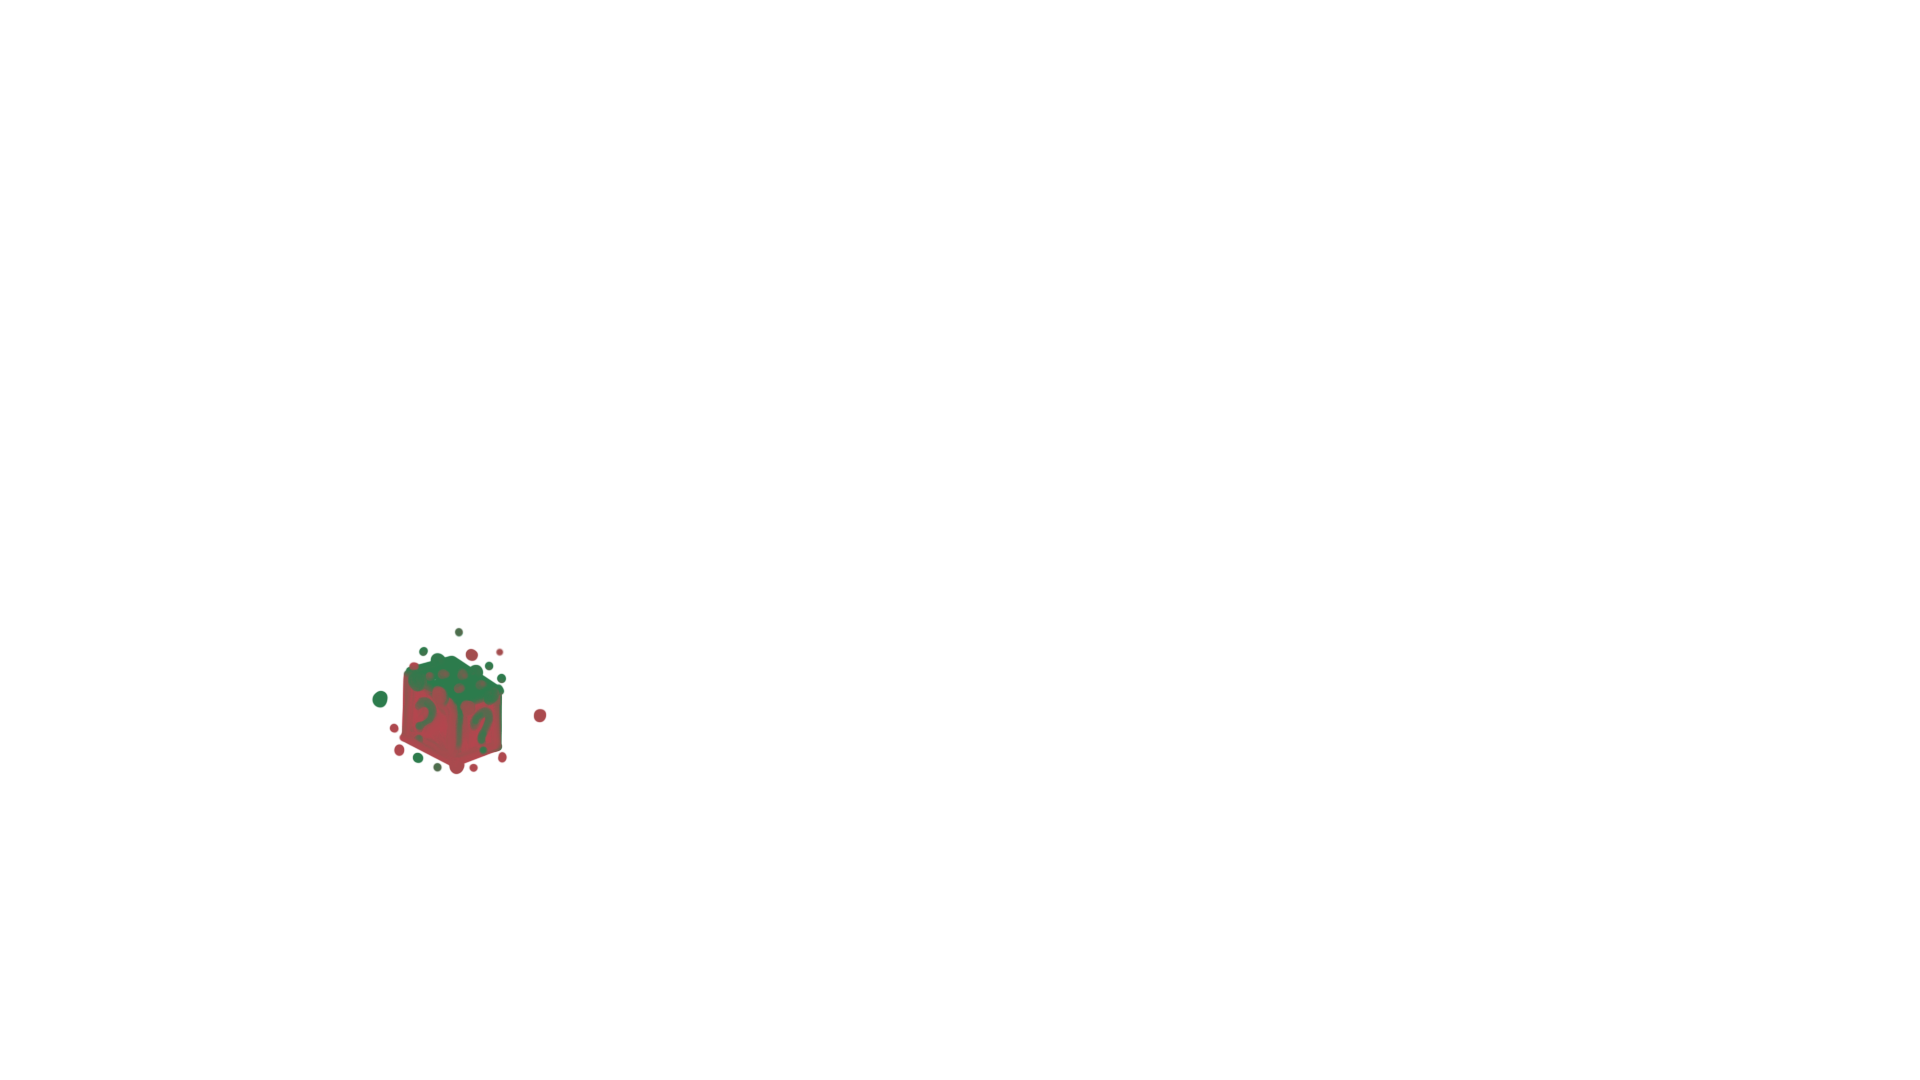
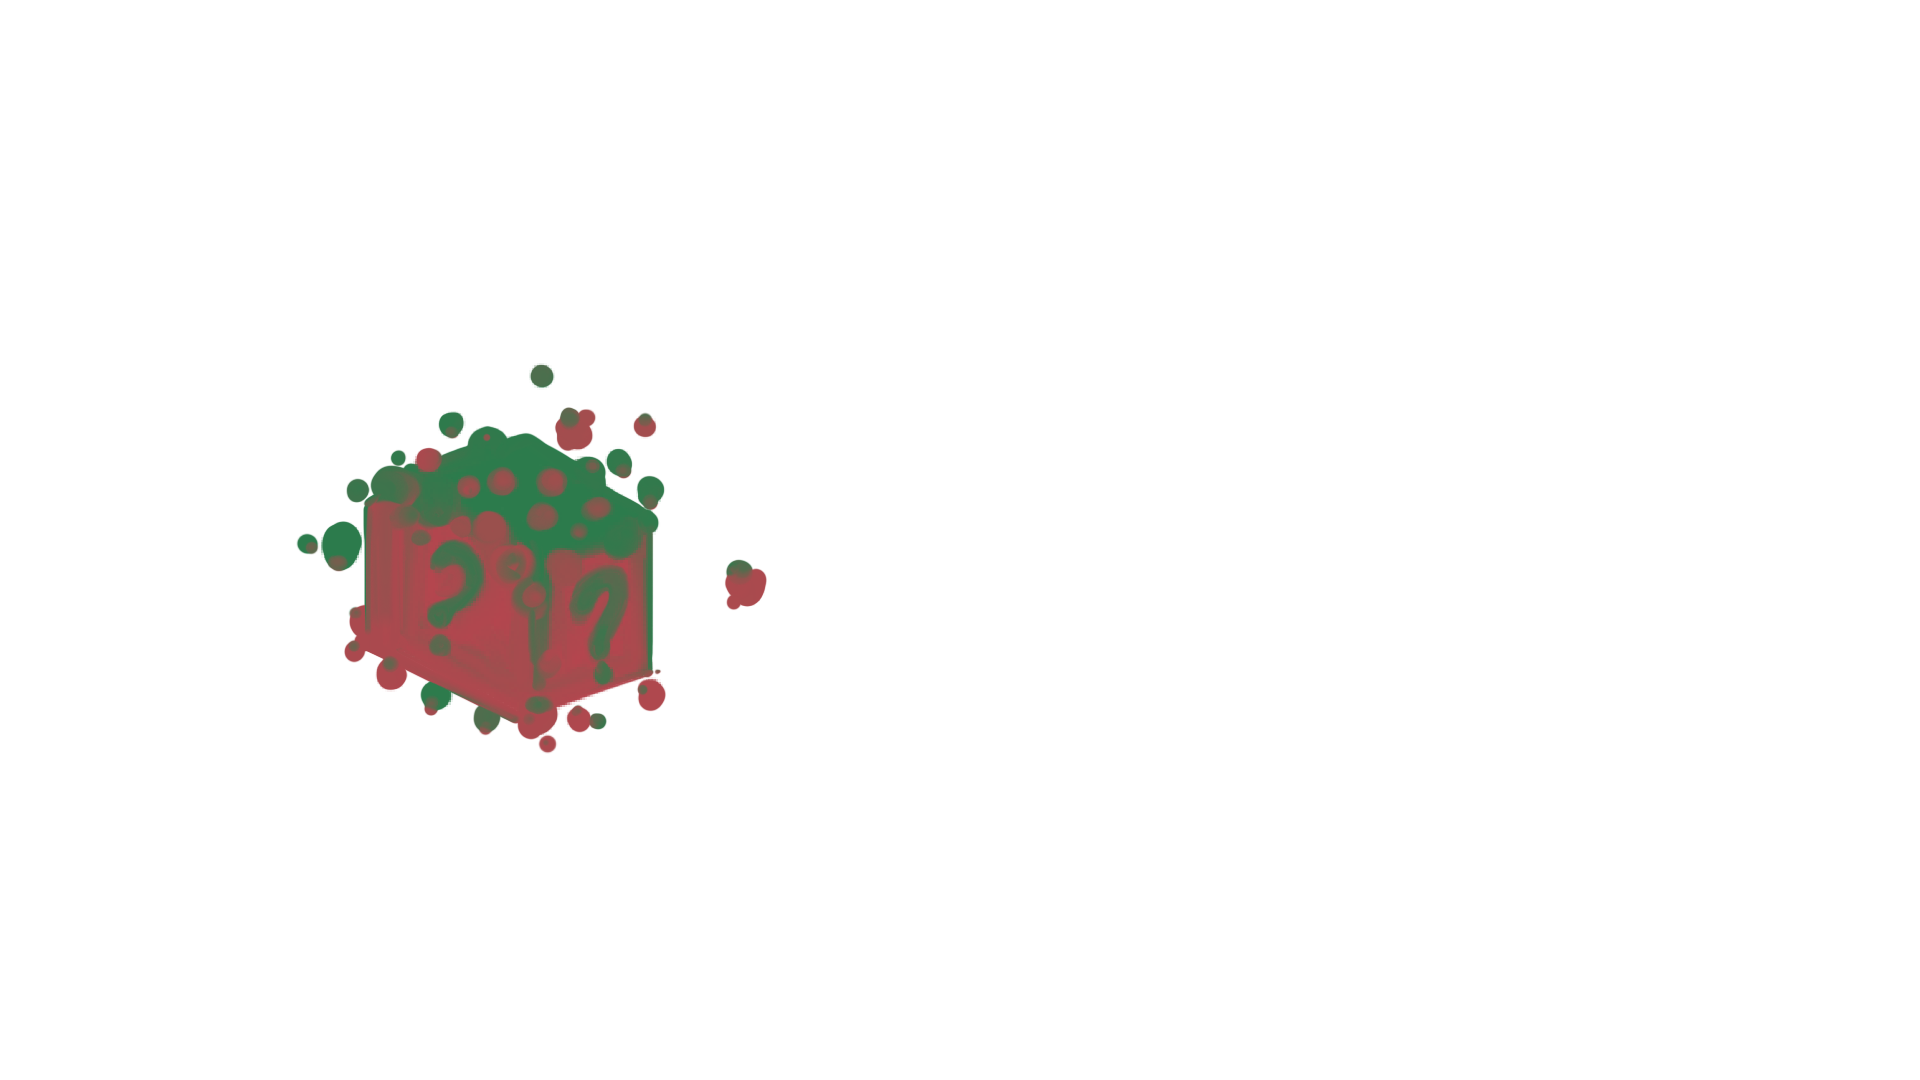
fixing failing screen

Changed region(s): [[0.1562, 0.3361, 0.3438, 0.7333], [0.375, 0.5194, 0.4062, 0.5806]]

diff --git a/device/template-p5-project/js/script.js b/device/template-p5-project/js/script.js
@@ -4,14 +4,14 @@ var angle = 0;
 var pipes = [];
 var waterDrop = [];
 var numOfPipes = 11;
-var level = 3 ;
+var level = 0 ;
 var xCor = 500;
 var yCor = 250;
 var randomAngle = [0, 90, 180, 270];
-var isPipeGame = true;
+var isPipeGame = false;
 var isGuessGame = false;
 var isloadingScreen = false;
-var isFailded = false;
+var isFailded = true;
 var waterTime = false;
 var isLoaded = false  ;
 var hint = false;
@@ -25,7 +25,6 @@ var p2Alpha = 0;
 var loadingCounter = 0;
 var isEnded=false
 var mouse = false;
-
 ////////// guess game
 var img,
   img2,
@@ -130,6 +129,8 @@ function preload() {
   con3 = loadImage("./assets/images/con3.png");
   beep = loadSound('assets/sounds/beep.mp3')
   waterSound=loadSound('assets/sounds/water.mp3')
+  textFont(fontRegular);
+
 }
 function setup() {
   createCanvas(windowWidth, windowHeight);
@@ -138,7 +139,6 @@ function setup() {
   imageMode(CENTER);
   rectMode(CENTER);
   beep.setVolume(1)
-  image(guessBox, 1261, 589, 100, 100);
   if (level === 0) {
     createPipe(280, 180, 11, 1, pattern);
   }
@@ -200,7 +200,7 @@ function draw() {
     image(backgroundImg, width/2, height/2, width, height);
     plantPhase(level);
     if (isGuessGame) {
-      image(guessBox, 1661, 410, 2000, 1000);
+      image(guessBox, 1521, 510, width, height);
     }
     interface();
     if (isPipeGame) {
@@ -238,7 +238,10 @@ function draw() {
     }
     if (isGuessGame) {
       push();
-      text("Which one is the right one?", 190, 135);
+      fill(0,200)
+      textSize(40)
+      textFont(fontRegular);
+      text("Which one is the right one?", 160, 135);
       image(img2, 240, 340, 600, 500);
       image(img, 60, 340, 600, 500);
       image(img3, 420, 340, 600, 500);
@@ -260,12 +263,13 @@ function draw() {
       pop();
     }
     displayWater();
-    if (isFailded) {
-      failScreen(1);
-    }
+    
   }
   plantPhase(level);
   ending()
+  if (isFailded) {
+    failScreen();
+  }
   fill(0);
   textSize(25);
   text(mouseX + "," + mouseY, mouseX, mouseY);
@@ -333,7 +337,8 @@ function timer() {
   textFont(fontRegular);
   // text(8888, 900, 150);
   if (isGuessGame) {
-    text(countDown, 250, 722);
+    text("Timer:   ", 50, 722);
+    text(countDown, 300, 722);
     if (frameCount % 60 == 0 && countDown > 0) {
       if (waterTime === false) {
         countDown--;
@@ -345,7 +350,8 @@ function timer() {
     }
   }
   if (isPipeGame) {
-    text(stepCount, 250, 722);
+    text("steps:", 50, 722);
+    text(stepCount, 350, 722);
     if (stepCount === 0) {
       sendMQTTMessage("fail");
       isFailded = true;
@@ -367,7 +373,6 @@ function interfaceAlpha() {
   }
 }
 function interface() {
-  image(box, 850, 370, 1300, 750);
   image(device, 653, 380, 1300, 750);
   interfaceAlpha();
   leftButton();
@@ -619,6 +624,7 @@ function pipeGame(l) {
   pop();
 }
 function plantPhase(l) {
+  
   if (l === 1) {
     image(leaf1, 700, 340, 2000, 1000);
     image(root1, 750, 360, 1700, 750);
@@ -635,10 +641,12 @@ function plantPhase(l) {
     image(root2, 750, 370, 1700, 750);
     image(root3, 750, 380, 1700, 750);
   }
+  image(box, 850, 370, 1300, 750);
+
 }
-function failScreen(l) {
+function failScreen() {
   image(con1, 1800, -400, 4000, 3000);
-  image(con2, 1800, -400, 4000, 3000);
+  image(con2, 1800, -400, 4000, 3000)
   image(con3, 1800, -400, 4000, 3000);
   push();
   fill(247, 114, 154);
@@ -650,43 +658,73 @@ function failScreen(l) {
       reset()
     }
   
-    fill(255);
-  
+    fill(235, 64, 52);
+    noStroke()
   rect(748, 625, 150, 50,50);
   fill(0);
-  textSize(25);
-  text("Retry", 711, 633);
+  textSize(20);
+  text("Retry", 721, 633);
   pop();
 }
 function loadingScreen() {
-  if (confirmAlpha === 255 && p2Alpha === 255) {
-    loadingCounter++;
-    if (loadingCounter > 100) {
-      loadingCounter = 0;
-      isGuessGame = true;
-      isloadingScreen = false;
+  if(confirmAlpha===255&&p2Alpha===255){
+    loadingCounter++
+    if(loadingCounter>100){
+     loadingCounter=0
+     isloadingScreen=false
+     isGuessGame=true
     }
-  }
-  push();
-  background(255);
-  text('haaaaaaaaaaaaaaaaaaaa',width/4,height/4)
-  fill(255);
-  rect(744, 650, 200, 50, 50);
-  fill(0);
-  text("Confirm", 695, 659);
-  text("Press space to confirm", 645, 559);
-  textSize(40);
-  pop();
-  push();
-  textSize(25);
-  fill(0);
-  text("player 1", 1014, 710);
-  text("player 2", 1214, 710);
-  fill(255, 0, 0, confirmAlpha);
-  ellipse(1044, 650, 50, 50);
-  fill(255, 0, 0, p2Alpha);
-  ellipse(1244, 650, 50, 50);
-  pop();
+ }
+
+ let vert3rd = height/3;  
+ push();
+ textAlign(CENTER);
+ textFont(fontRegular);
+ background(240,240,240);
+ fill(255);
+ rect(width/3, (vert3rd * 2) + 100, 200, 50, 50);
+ fill(0);
+ text("Confirm", width/3, vert3rd * 2 + 110);
+ text("Press space-bar to confirm", width/3, (vert3rd * 2) + 70);
+ textSize(40);
+ fill(0);
+ pop();
+
+ push();
+ textAlign(CENTER);
+ textFont(fontRegular);
+ textSize(60);
+ text("Program Code Name: **Alien Plant Comms**", width/2, vert3rd - 250);
+ textSize(50);
+ text("Brief:", width/2, vert3rd - 160);
+ 
+ textAlign(LEFT);
+ textWrap(WORD);
+ textSize(30);
+ text("Extraterrestrial alien lifeforms have been discovered in the topsoil. Our department has found a way to interface with these plant-like entities. We believe they may hold the key to offset CO2 levels in the atmosphere. Providing Oxygen at a rapid rate, and allowing us to return to the surface within the coming years.", width/2, vert3rd - 100, width - 500);
+;
+ text("We call upon the inhabitants of the Greenhouse underground to cooperate in pairs to upkeep the systems that allow us to grow our alien plant visitors and avoid contamination.", width/2, height/2 -60, width - 500);
+
+ textAlign(RIGHT);
+ text("Identify the alien seeds, test your knowledge of earth flora, repair irrigation pipelines, and **communicate everything you see onscreen to your teammate**", width/2-70, height/2 + 65, width - 500);
+
+ textAlign(CENTER)
+ text("Cooperation among all species is essential to our success.", width/2, (vert3rd * 2) + 200, width - 500);
+ pop();
+
+ push();
+ textAlign(CENTER);
+ textFont(fontRegular);
+ textSize(25);
+ text("player **GAMMA**", width/2, (vert3rd * 2) + 70);
+ text("player **DELTA** ", width/2 + 200, (vert3rd * 2) + 70);
+
+ fill(255,0,0,confirmAlpha)
+ ellipse(width/2, vert3rd * 2+100, 50, 50);
+ 
+ fill(255,0,0,p2Alpha)
+ ellipse(width/2 + 200, vert3rd * 2 + 100, 50, 50);
+ pop();
 }
 function ending(){
 }
